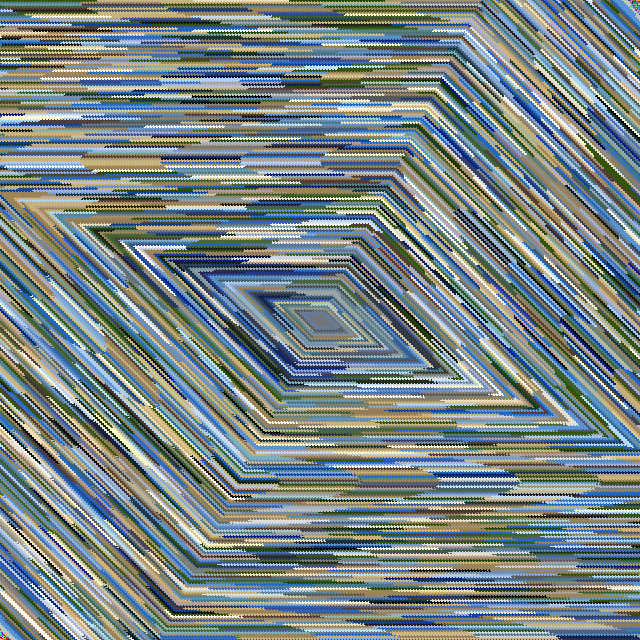
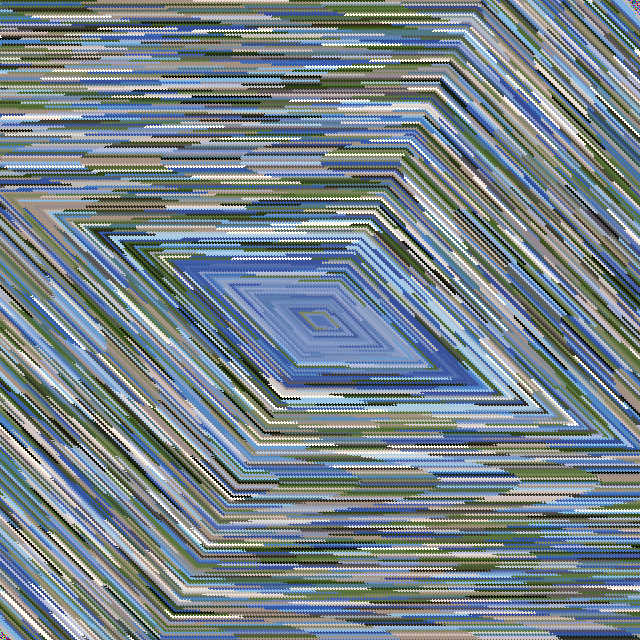
0071 - node --harmony /index.js

diff --git a/sketches/0071/index.js b/sketches/0071/index.js
@@ -78,18 +78,17 @@ var getMin = function(a){
 co(function*(){
 
 	var BLOCK_SIZE = 320;
-	var NUM_COLORS = 16;
+	var NUM_COLORS = 300;
 	var BACK_TRACK = 160;
 
 	var mash = function(a){
 		var out = 0;
 
 		for(var i=0; i<a.length; i++){
-			var v = Math.floor(a[i]/16) * 16;
-			out += v;
+			out += a[i]
 		}
 
-		return Math.floor( (out/256/a.length) * 256);
+		return out;
 	}
 
 	var numImgs = listOfImages.length;
